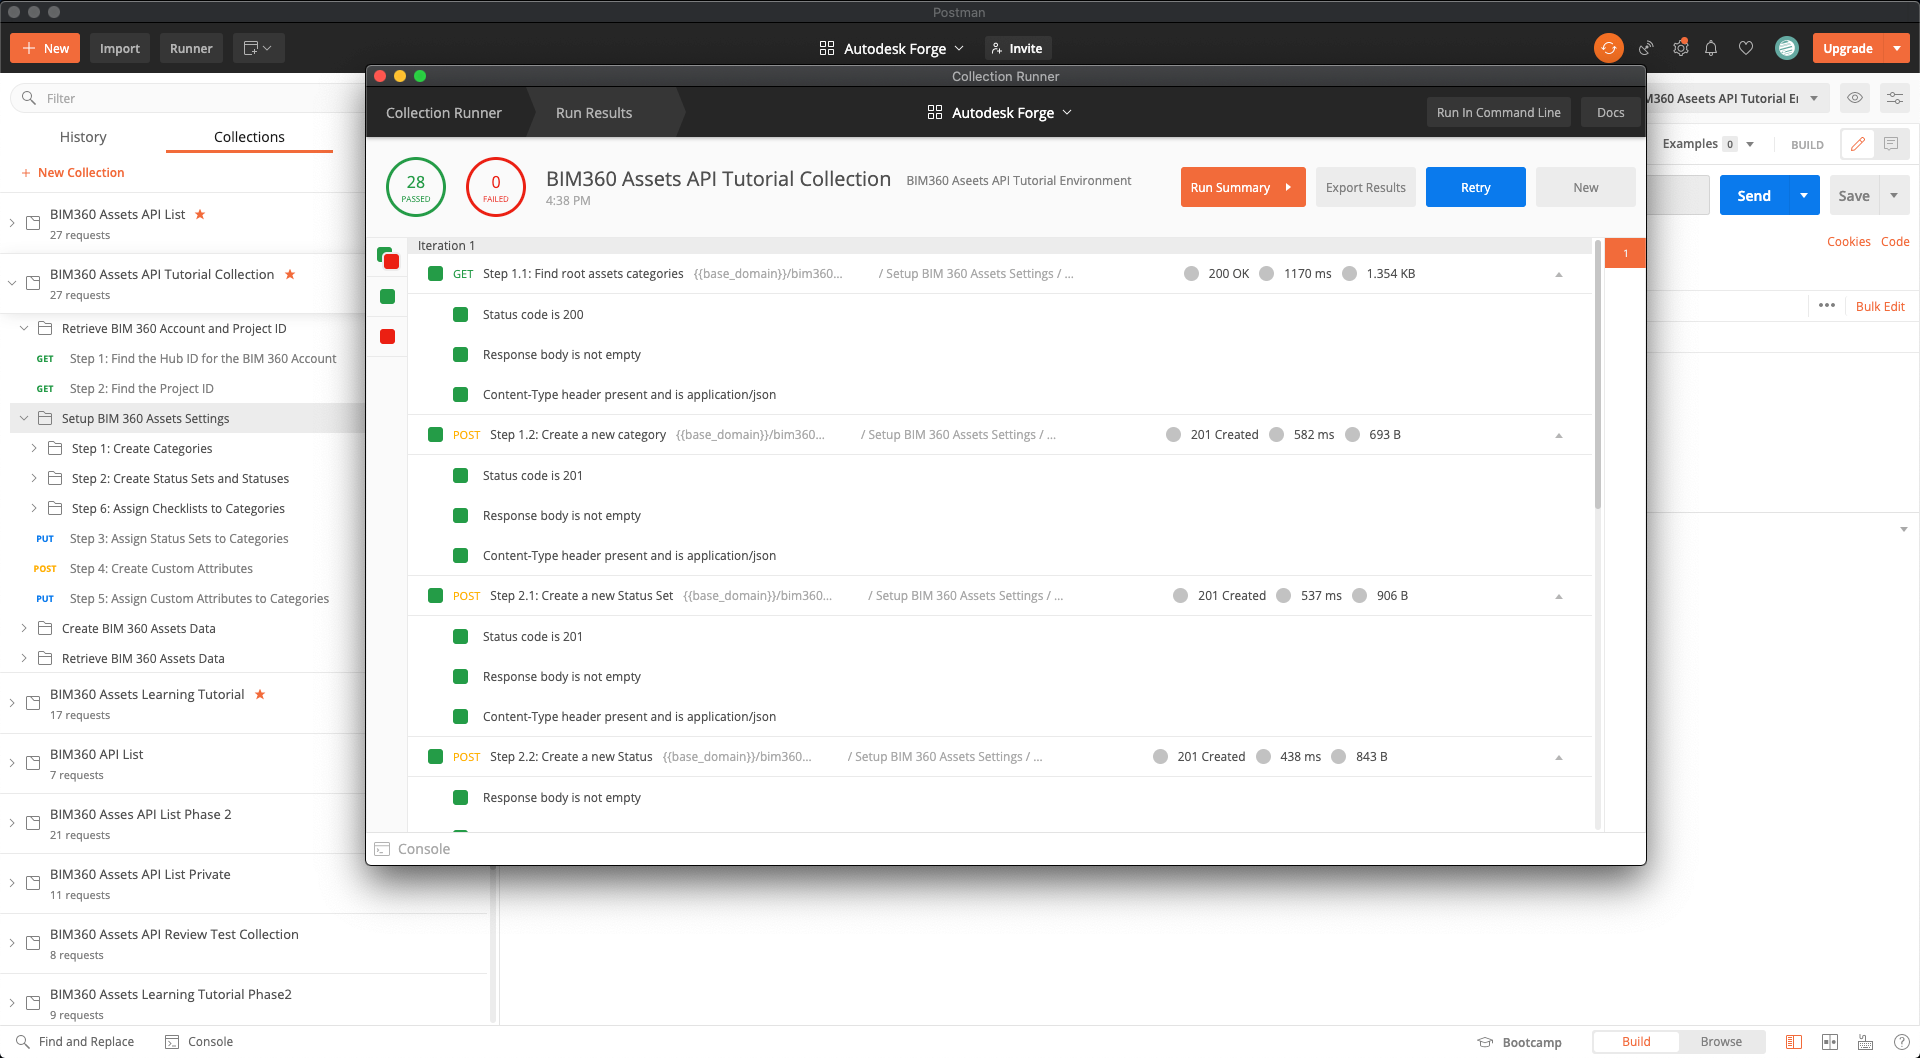
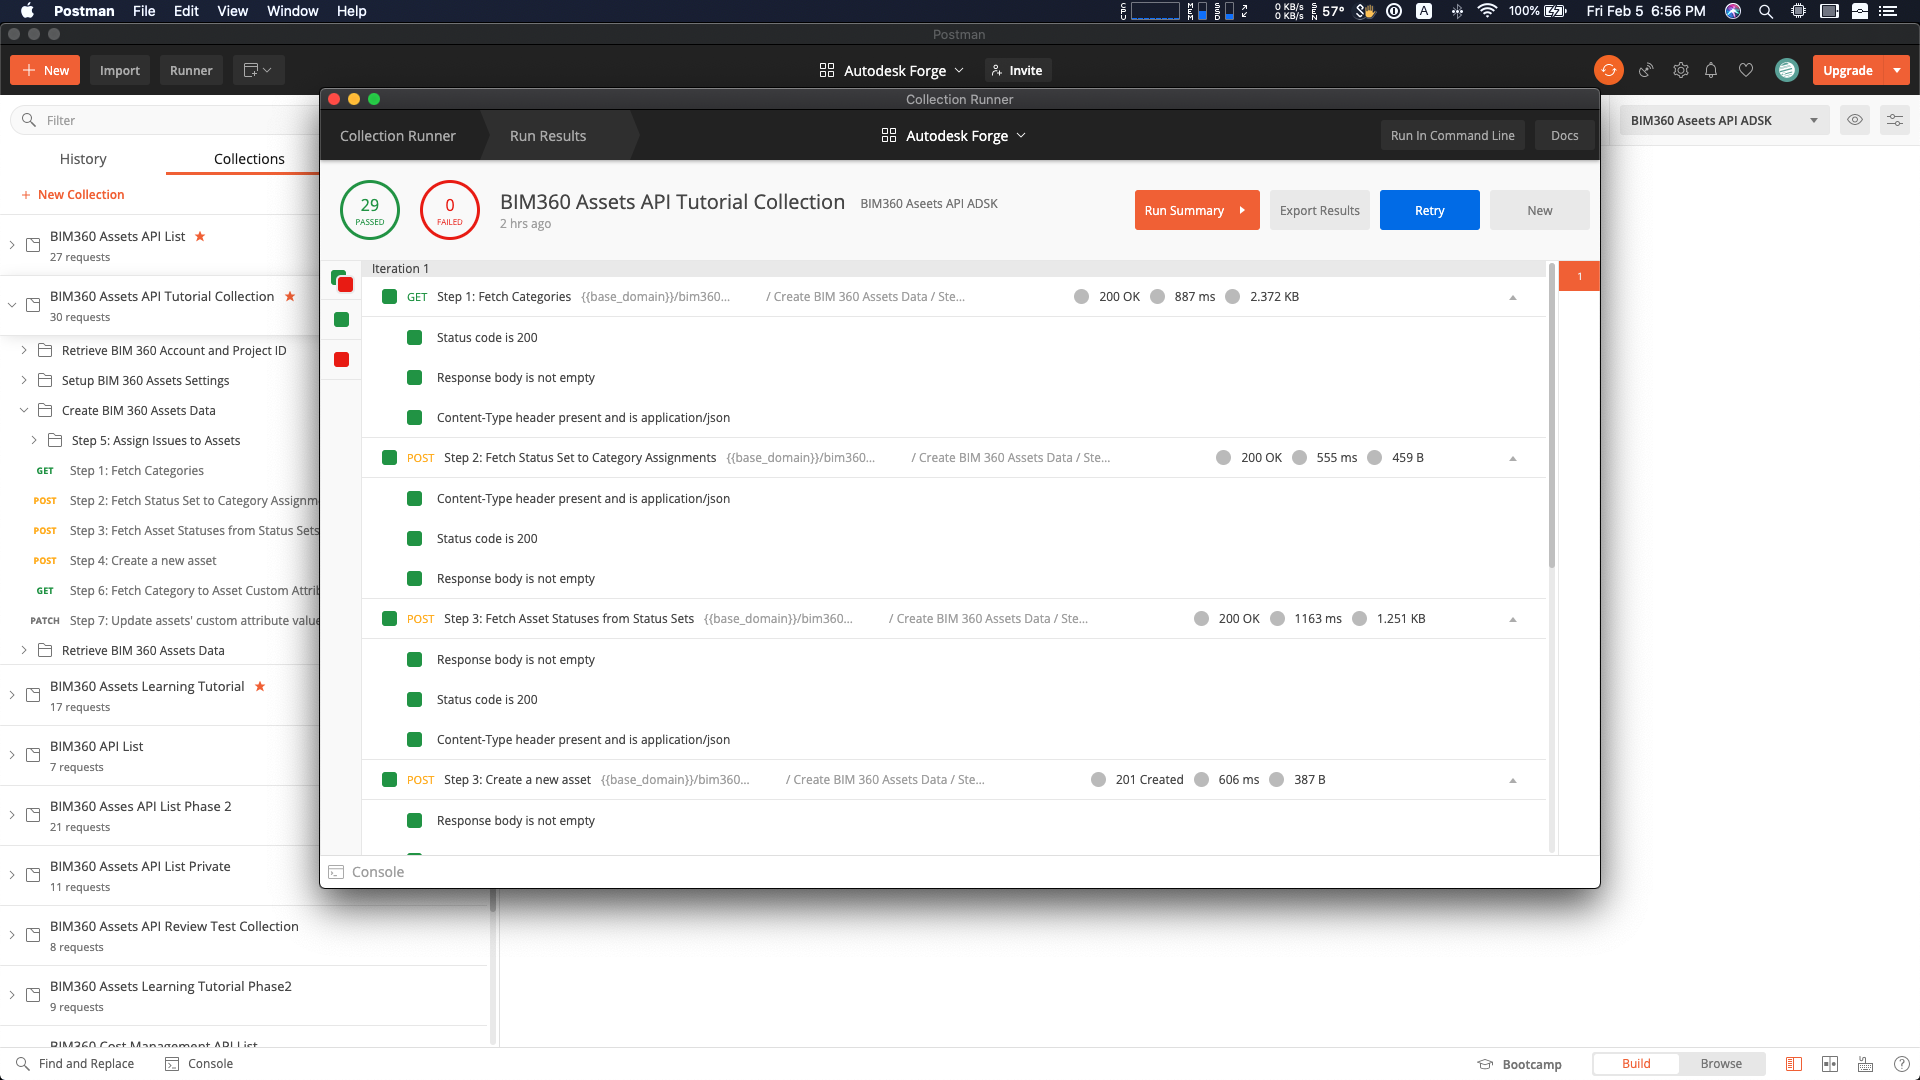
Update `Create BIM 360 Assets Data` tutorial

diff --git a/Tutorial/README.md b/Tutorial/README.md
@@ -1,4 +1,4 @@
-# IM360 Assets API Step-by-Step Tutorial
+# BIM360 Assets API Step-by-Step Tutorial
 
 ![Platforms](https://img.shields.io/badge/Web-Windows|MacOS-lightgray.svg)
 [![oAuth2](https://img.shields.io/badge/Authentication-v1-green.svg)](http://developer.autodesk.com/)
@@ -46,61 +46,44 @@ This folder contains a Postman Collection that contains the requests cover the c
 - **Setup BIM 360 Assets Settings**<a id="asset-tutorial-2"></a>: It contains a set of Postman scripts demonstrating how to set up a new BIM 360 project's Asset settings.
 
   - Step 1: Create Categories
-
     - Step 1.1: List all the categories of BIM 360 Assets, and save **asset_category_parent_id** of the ROOT category for creating a new category under it. (Assets API)
     - Step 1.2: Create a new asset category with the value of the **asset_category_name** specified in the **Pre-request Script**. Save **asset_category_id** for the category you just created. (Assets API)
-
   - Step 2: Create Status Sets and Statuses
-
     - Step 2.1: Create a new Asset status set with the value of the **asset_status_set_name** specified in the **Pre-request Script**. Save **asset_status_step_set_id** for the Asset status set you just created. (Assets API)
     - Step 2.2: Create a new Asset status and append it to the status set created in Step 2.1. Save **asset_status_id** for the Asset status you just created. (Assets API)
-
   - Step 3: Assign Status Sets created in Step 2 to the category of Step 1. (Assets API)
-
   - Step 4: Create a new custom attribute of the BIM 360 Assets with the value of the **custom_attribute_displayname** specified in the **Pre-request Script**. Save **custom_attribute_id** and **custom_attribute_name** for the asset you just created. (Assets API)
-
   - Step 5: Assign Custom Attributes created in Step 4. to the category of Step 1. (Assets API)
-
   - Step 6: Assign Checklists to Categories
-
     - Step 6.1: Get the information of the specified BIM360 project, and save issues_container_id for the Issues Container(Data Management API).
     - Step 6.2: Get all available checklist templates, save  **checklist_template_id** of the first checklist template for associating it with the assets. (Checklists API)
     - Step 6.3: Associate the checklist template of Step 13 with the category created in Step 4. (Assets API)
 
 - **Create BIM 360 Assets Data**<a id="asset-tutorial-3"></a>:  It contains a set of Postman scripts demonstrating how to create Asset data, work with Issue API to crate an issue, and assign the issue to an asset.
 
-  - Step 1: Get all available asset statuses, save  **asset_status_id** of the last one for creating new assets. (Assets API)
-
-  - Step 2: Get all available asset categories, save  **asset_category_id** of the last one for creating new assets. (Assets API)
-
-  - Step 3: Create a new asset with the value of the **asset_name** specified in the **Pre-request Script**. Save **asset_id** for the asset you just created. (Assets API)
-
-  - Step 4: Assign Issues to Assets
-
-    - Step 4.1: Get the information of the specified BIM360 project, and save **issues_container_id** for the Issues Container. (Data Management API)
-    - Step 4.2: Get all available issue types and subtypes, save  **issue_type** of the first issue type and its first subtype as **issue_subtype** for creating new issues. (Issues API)
-    - Step 4.3: Create a new issue with the value of the **issue_title** specified in the **Pre-request Script**. Save **issue_id** for the asset you just created. (Issues API)
-    - Step 4.4: Associate the issue of Step 4.3 with the asset created in Step 3. (Assets API)
+  - Step 1: Get all available asset categories, save  **asset_category_id** of the last one for creating new assets. (Assets API)
+  - Step 2: Get asset status sets assigned to category ids, save  **asset_status_set_id** of the first one for obtaining asset statuses. (Assets API)
+  - Step 3: Get asset statuses under given status set ids, save  **asset_status_id** of the first value of first status set for creating new assets. (Assets API)
+  - Step 4: Create a new asset with the value of the **asset_name** specified in the **Pre-request Script**. Save **asset_id** for the asset you just created. (Assets API)
+  - Step 5: Assign Issues to Assets
+    - Step 5.1: Get the information of the specified BIM360 project, and save **issues_container_id** for the Issues Container. (Data Management API)
+    - Step 5.2: Get all available issue types and subtypes, save  **issue_type** of the first issue type and its first subtype as **issue_subtype** for creating new issues. (Issues API)
+    - Step 5.3: Create a new issue with the value of the **issue_title** specified in the **Pre-request Script**. Save **issue_id** for the asset you just created. (Issues API)
+    - Step 5.4: Associate the issue of Step 4.3 with the asset created in Step 3. (Assets API)
+  - Step 6: Get all available custom attributes assign to the category, find a text-typed custom attribute, and save **custom_attribute_id** and **custom_attribute_name** for updating custom attributes' value.
+  - Step 7: Update custom attribute value to `Hello World!`
 
 - **Retrieve BIM 360 Assets Data**<a id="asset-tutorial-4"></a>: It contains a set of Postman scripts demonstrating how to fetch your complete set of BIM 360 Asset data and metadata. This collection can be for the entirety of your Asset data or filtered to a subset of Asset data.
 
   - Step 1: Fetch all available assets in your project. (Assets API)
-
   - Step 2: Fetch all available assets categories in your project. (Assets API)
-
   - Step 3: Fetch Status Sets And Asset Statuses
-
     - Step 3.1: Fetch all available Asset Status Sets in your project. (Assets API)
     - Step 3.2: Fetch all available Asset Status in your project. (Assets API)
-
   - Step 4: Fetch Asset Status Sets assign to the ids of categories given in the POST body. (Assets API)
-
   - Step 5: Fetch all available Asset Custom Attributes in your project. (Assets API)
-
   - Step 6: Fetch all available Custom Attributes assign to the given id of the category. (Assets API)
-
   - Step 7: Fetch Locations (Not available yet since Locations API hasn't been released)
-
   - Step 8: Fetch  all available relationship data of the Assets data in your project (Relationships API)
 
 ## Further Reading
